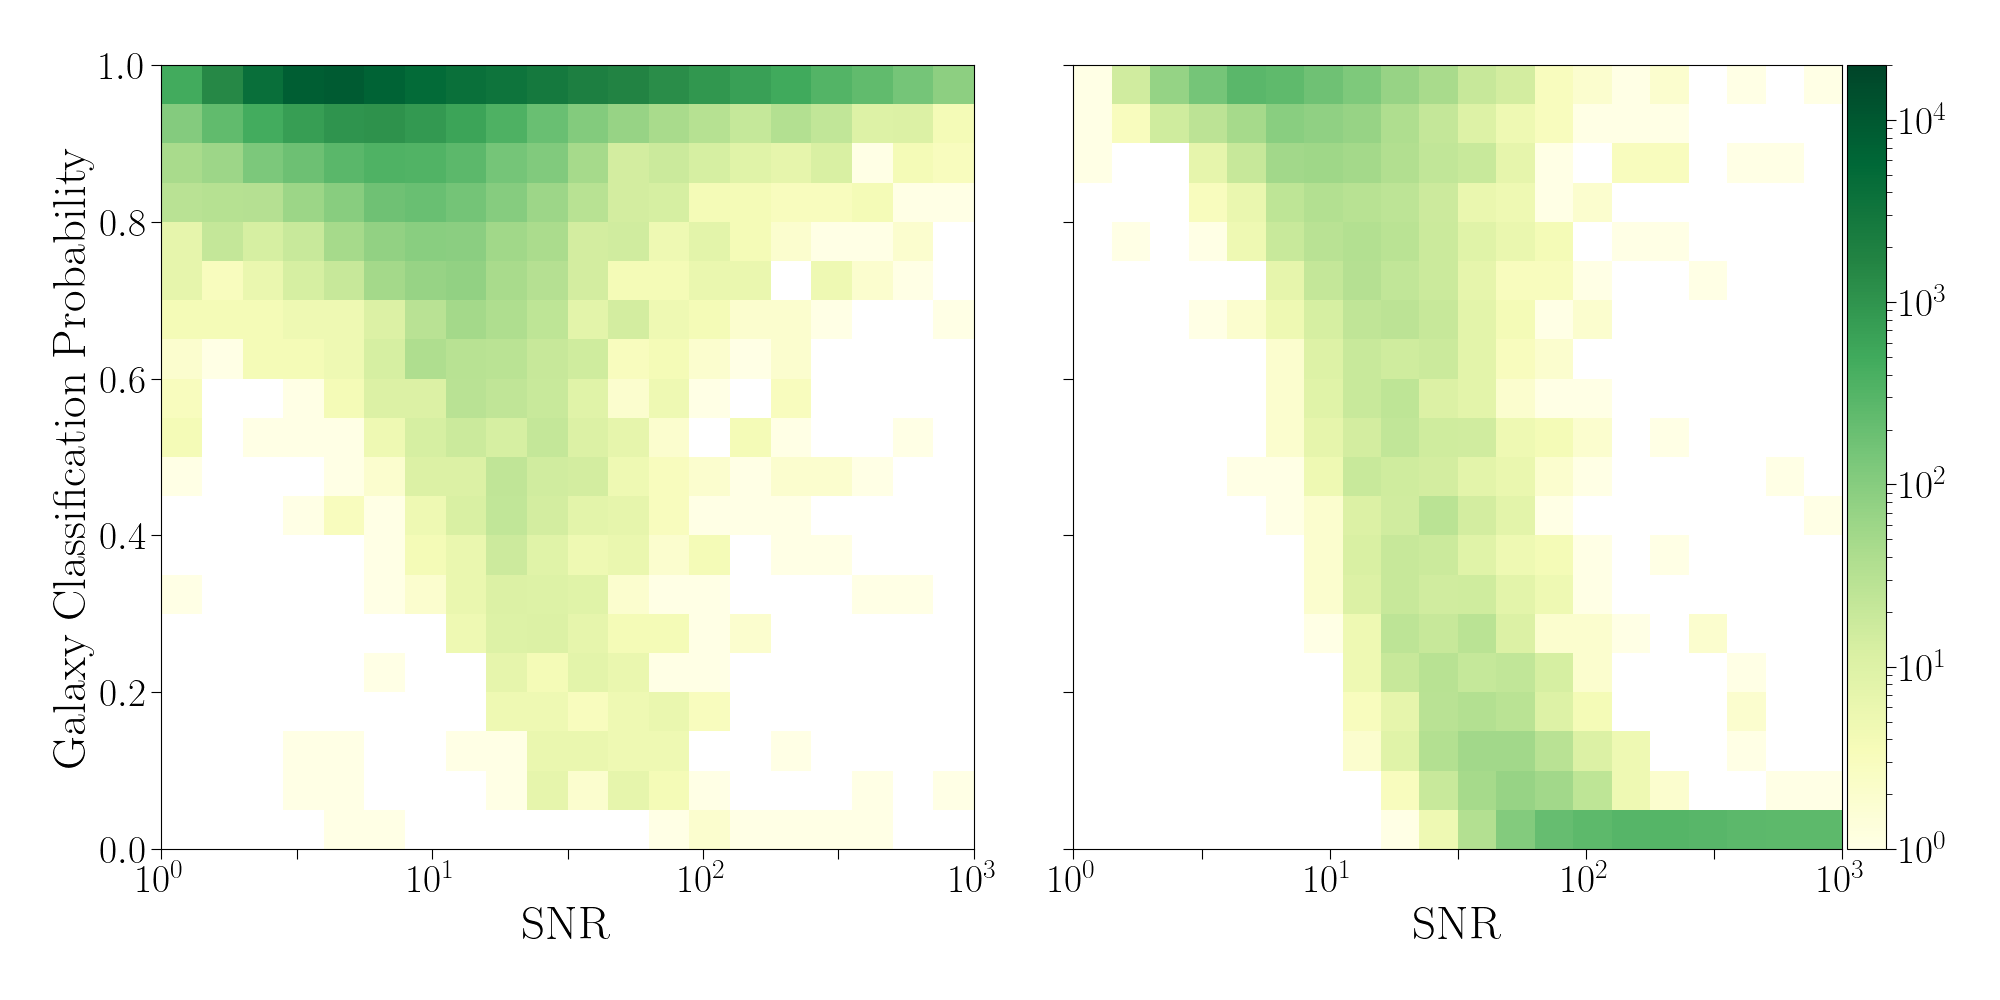
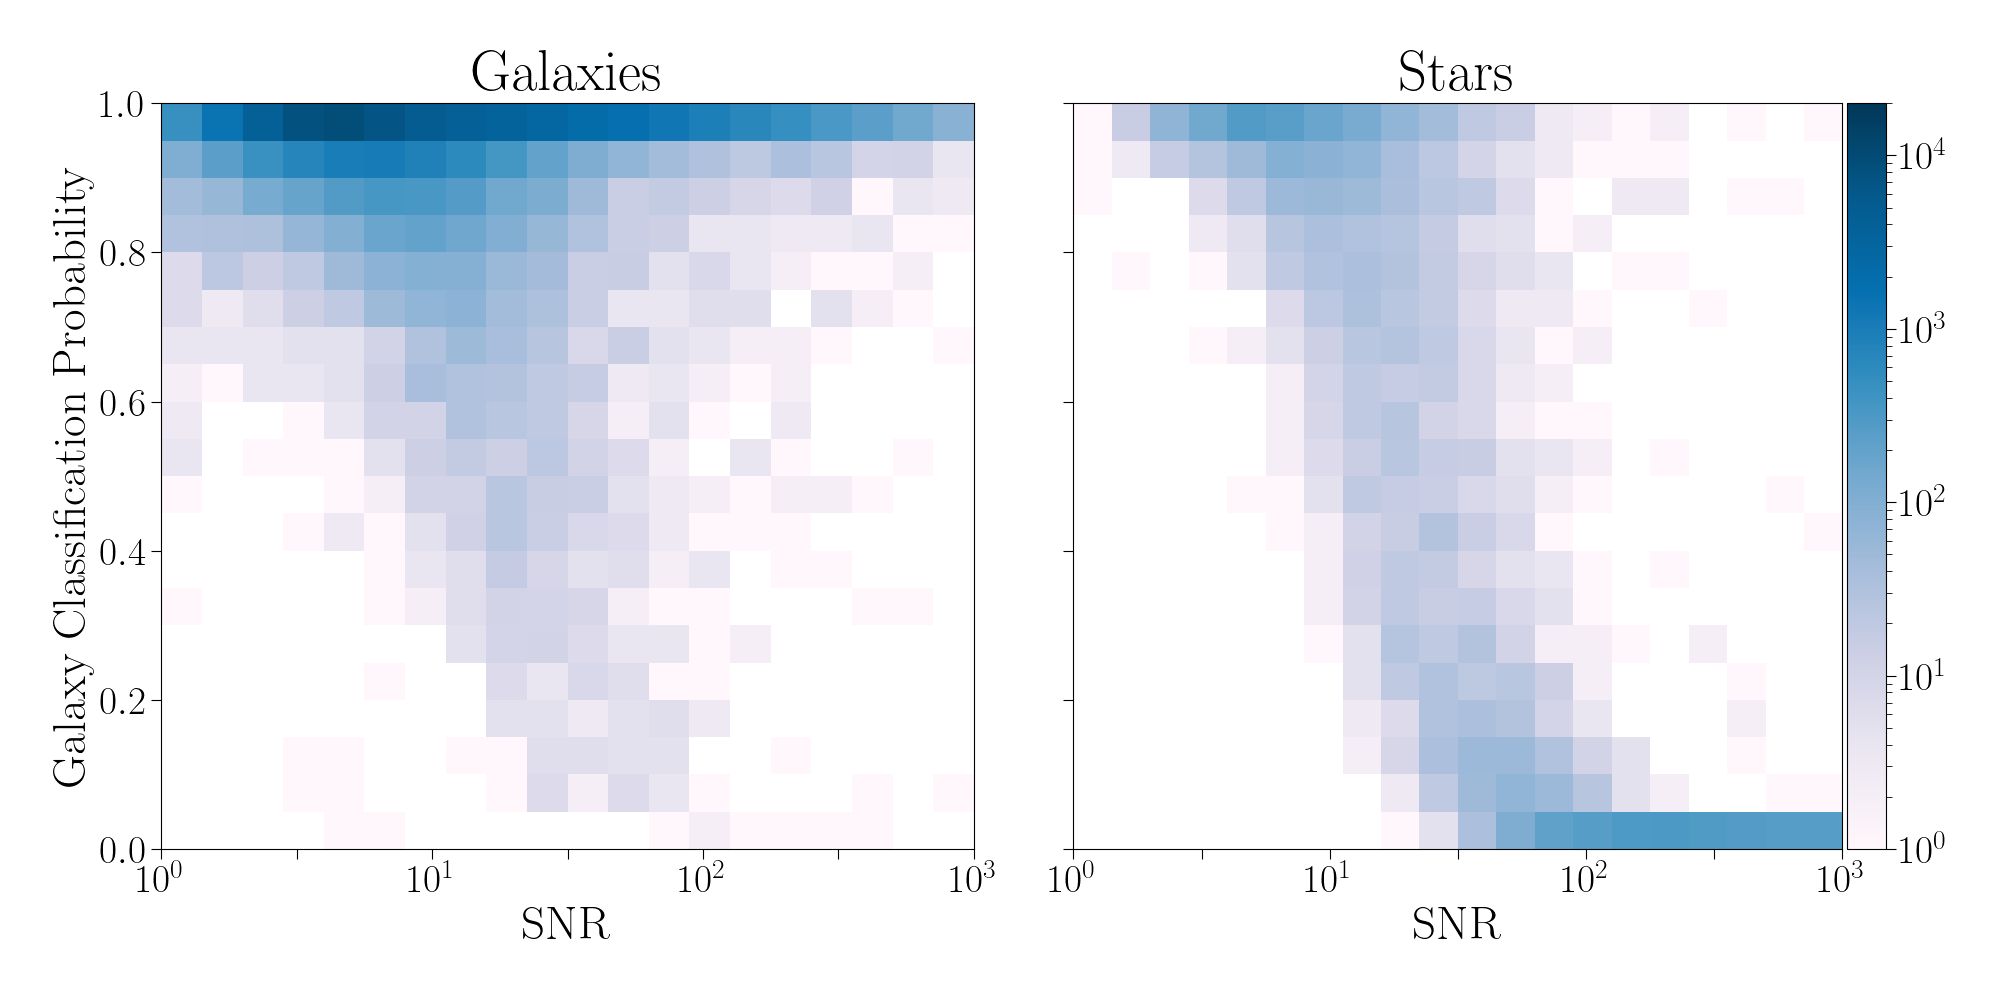
color + titles

diff --git a/experiment/scripts/figures/binary_figures.py b/experiment/scripts/figures/binary_figures.py
@@ -305,7 +305,7 @@ class BinaryFigures(BlissFigure):
             probs[galaxy_mask],
             bins=20,
             range=[[0, 3], [0, 1]],
-            cmap="YlGn",
+            cmap="PuBu",
             norm="log",
             vmin=1,
             vmax=2e4,
@@ -315,19 +315,21 @@ class BinaryFigures(BlissFigure):
         ax1.set_xticks(ticks=_xticks, labels=_xticks_labels)
         ax1.set_xlabel(r"\rm SNR")
         ax1.set_ylabel(r"\rm Galaxy Classification Probability")
+        ax1.set_title(r"\rm Galaxies")
 
         _, _, _, pcm = ax2.hist2d(
             np.log10(snr[star_mask]),
             probs[star_mask],
             bins=20,
             range=[[0, 3], [0, 1]],
-            cmap="YlGn",
+            cmap="PuBu",
             norm="log",
             vmin=1,
             vmax=2e4,
         )
         ax2.set_xticks(ticks=_xticks, labels=_xticks_labels)
         ax2.set_xlabel(r"\rm SNR")
+        ax2.set_title(r"\rm Stars")
 
         divider = make_axes_locatable(ax2)
         cax = divider.append_axes("right", size="5%", pad=0.05)
